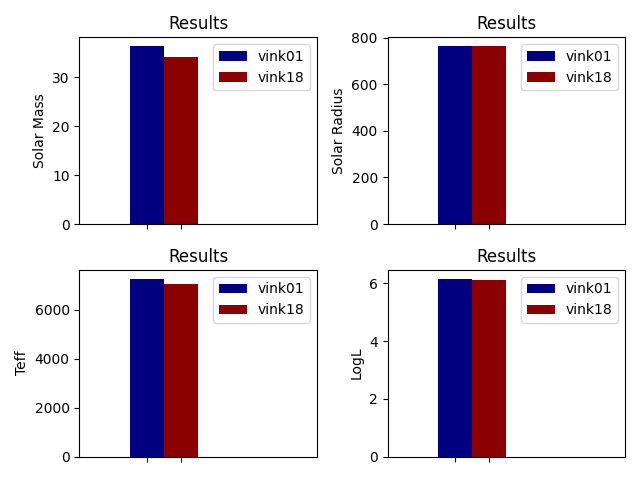
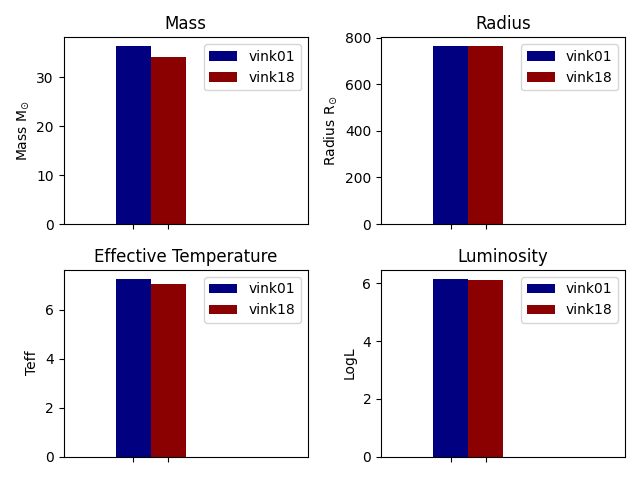
plots

diff --git a/Code/Code/simulation.py b/Code/Code/simulation.py
@@ -18,19 +18,57 @@ def simulation(model1, model2):
     xlist2 = []
     ylist2 = []
 
-    for i in range(0,len(model1.model),10):
+    for i in range(0,len(model1.model),15):
 
         xlist.append(model1.model[i])
         ylist.append(model1.R[i])
         xlist2.append(model2.model[i])
         ylist2.append(model2.R[i])
             
-        plt.plot(xlist, ylist, label='line 1', linewidth=2, color = 'navy')
-        plt.plot(xlist2, ylist2, label='line 1', linewidth=2, color = 'darkred')
+        plt.plot(xlist, ylist, label='Model 1', linewidth=2, color = 'navy')
+        plt.plot(xlist2, ylist2, label='Model 2', linewidth=2, color = 'darkred')
         plt.xlim(0,4000)
         plt.ylim(0,1500)
+        plt.ylabel('Radius R$_{\odot}$')
+        plt.xlabel('Age [M/y]')
+        plt.title('Compare Radius of 2 Models')
+        if i == 0:
+            plt.legend()
         plt.ion()
         plt.draw()
         plt.pause(0.0000001)
+        #plt.close()
 
 #simulation(vink01,vink18)
+
+def circles(model1,model2):
+
+    for i in range(0,len(model1.age),20):
+
+        circle1 = plt.Circle((1600, 1800), model1.R[i], alpha=0.2, lw=3, color = 'red', edgecolor='r', label = 'Model 1')
+        circle2 = plt.Circle((4600, 1800), model2.R[i], alpha=0.2, lw=3, color = 'darkred', edgecolor='r', label = 'Model 2')
+
+        fig, ax = plt.subplots() 
+        ax.set_xlim(0,6200)
+        ax.set_ylim(0,4000)
+        ax.set_ylabel('Distance R$_{\odot}$')
+        ax.set_xlabel('Distance R$_{\odot}$')
+        ax.set_title('Compare Radius of 2 Models')
+
+        ax.add_patch(circle1)
+        ax.add_patch(circle2)
+
+        plt.text(4800,3200, f'Age: {round(model1.age[i],2)} [M/y]')
+        plt.legend(loc = 'upper right')
+
+        #plt.show()
+
+        plt.draw()
+        plt.pause(0.0000001)
+        plt.close()
+        #print(i)
+
+
+    #fig.savefig('Plots/plotcircles.png')
+
+circles(vink01, vink18)

diff --git a/Code/Code/subplots.py b/Code/Code/subplots.py
@@ -23,7 +23,7 @@ def star(model1, model2):
     ax1.legend(fancybox = True, scatterpoints = 1, labelspacing = 1, shadow=True)
     ax1.set_xlabel('Age [Myr]')
     ax1.set_ylabel('Mass [M$_{\odot}$]')
-    ax1.set_title('Mass Loss')
+    ax1.set_title('Mass')
     ax1.yaxis.set_major_formatter(FormatStrFormatter('%d'))
 
     # ------ Plot 2 ------
@@ -154,8 +154,8 @@ def histogram(model1, model2):
     ax1.set_xlim(0,7)
     ax1.set_xticks([2,3])
     ax1.set_xticklabels(['', ''])
-    ax1.set_ylabel('Solar Mass')
-    ax1.set_title('Results')
+    ax1.set_ylabel('Mass M$_{\odot}$')
+    ax1.set_title('Mass')
     ax1.legend()
 
     ax2.bar(2, model1.R[len(model1.R)-1], 1, label='vink01', color = 'navy')
@@ -163,8 +163,8 @@ def histogram(model1, model2):
     ax2.set_xlim(0,7)
     ax2.set_xticks([2,3])
     ax2.set_xticklabels(['', ''])
-    ax2.set_ylabel('Solar Radius')
-    ax2.set_title('Results')
+    ax2.set_ylabel('Radius R$_{\odot}$')
+    ax2.set_title('Radius')
     ax2.legend()
 
     ax3.bar(2, model1.Teff[len(model1.Teff)-1], 1, label='vink01', color = 'navy')
@@ -173,7 +173,7 @@ def histogram(model1, model2):
     ax3.set_xticks([2,3])
     ax3.set_xticklabels(['', ''])
     ax3.set_ylabel('Teff')
-    ax3.set_title('Results')
+    ax3.set_title('Effective Temperature')
     ax3.legend()
 
     ax4.bar(2, model1.logL[len(model1.logL)-1], 1, label='vink01', color = 'navy')
@@ -182,13 +182,13 @@ def histogram(model1, model2):
     ax4.set_xticks([2,3])
     ax4.set_xticklabels(['', ''])
     ax4.set_ylabel('LogL')
-    ax4.set_title('Results')
+    ax4.set_title('Luminosity')
     ax4.legend()
 
     fig.tight_layout()
     plt.savefig('Plots/histogram.png')
 
-#histogram(vink01, vink18)
+histogram(vink01, vink18)
 
 # ------ Plot difference between 2 variables ------
 def difference(model1,model2, var):

diff --git a/Code/Code/HRD.py b/Code/Code/HRD.py
@@ -41,8 +41,8 @@ hrd(vink01, vink18)
 def subhrd(model1, model2):
     
     colormap = plt.cm.plasma
-    fig, (ax1, ax2) = plt.subplots(2, figsize=(9,6.5))
-    fig.suptitle('HRD Comparison Models', fontweight='bold')
+    fig, (ax1, ax2) = plt.subplots(2, figsize=(9,9))
+    fig.suptitle('HRD 2 Models', fontweight='bold')
 
     # ------ first plot ------
     ax1.set_xlim(51,2)
@@ -74,7 +74,7 @@ def subhrd(model1, model2):
     cbar.set_label('Age [Myr]')
 
     fig.tight_layout()
-    plt.savefig('Plots/subHRD.png')
+    plt.savefig('Plots/HRD-sub.png')
 
 subhrd(vink01, vink18)
 
